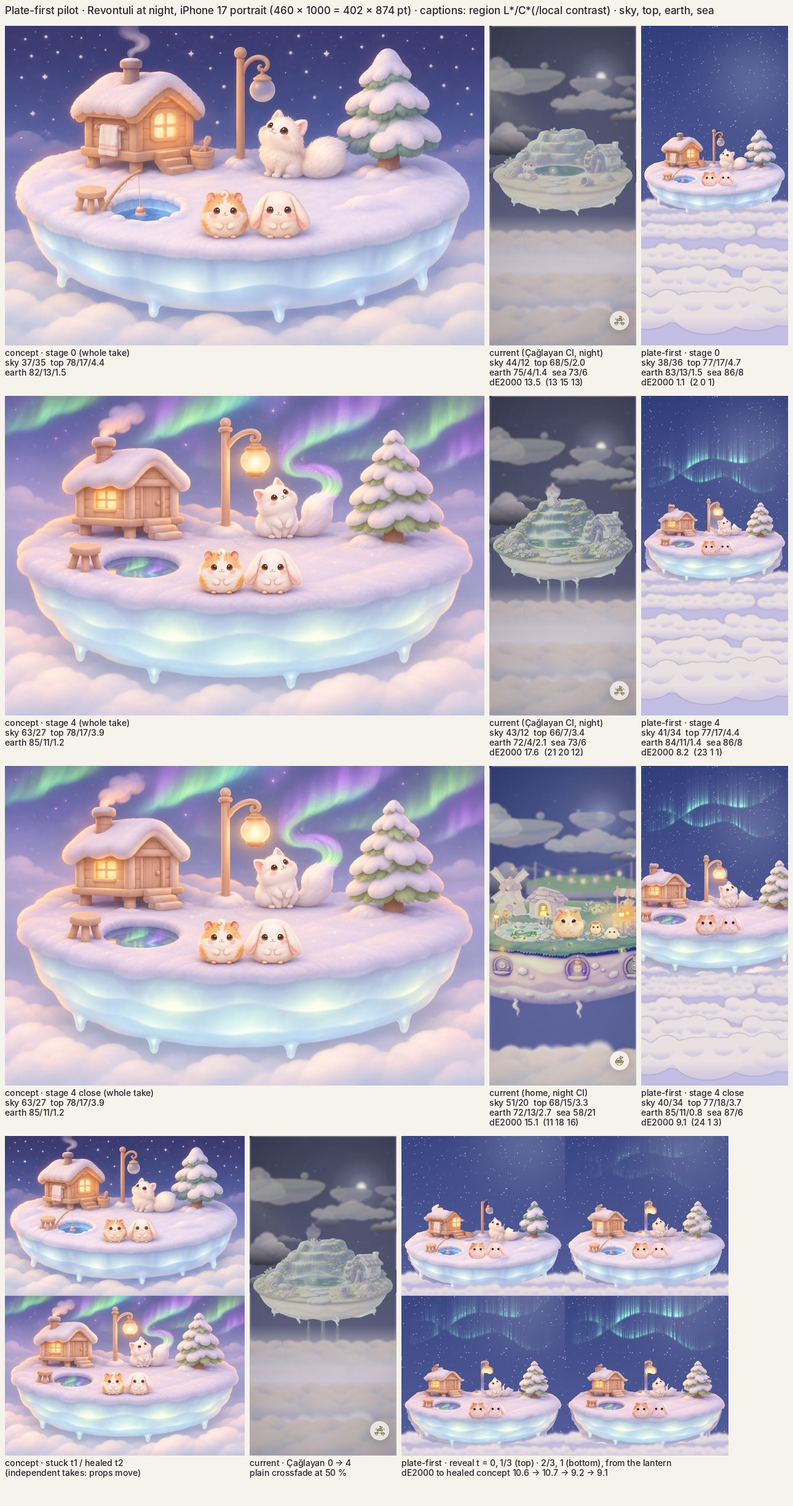
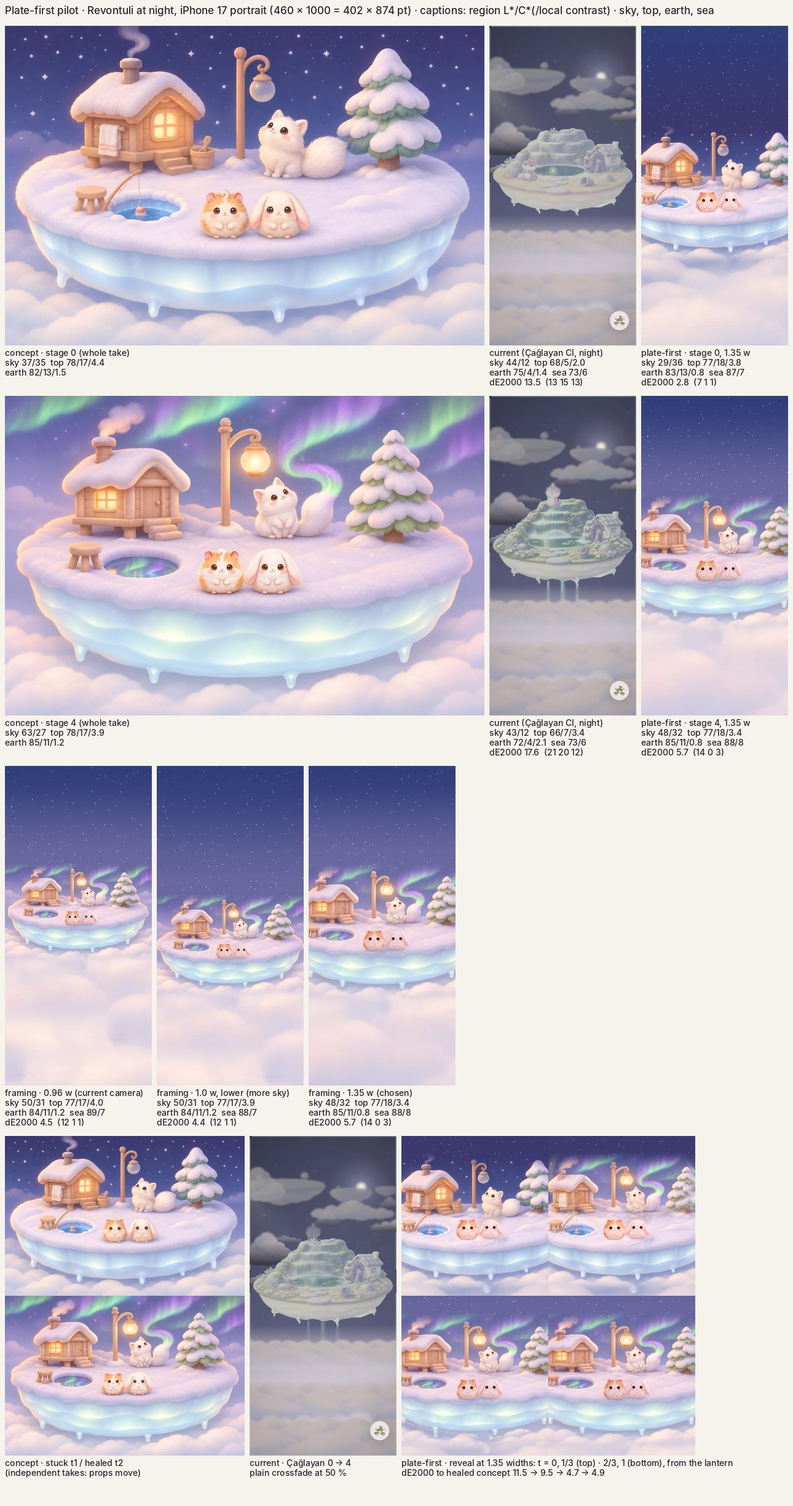
feat(research): paint the pilot's backdrop from the plate, add framings
The procedural cloud sea and aurora read cheaper than the painting, so
the pilot now uses the take's own sky, aurora and clouds (continued
above and enlarged below without visible repeats), and shows stage 4
at 0.96, 1.0 and 1.35 screen widths; 1.35 frames the other rows.

Claude-Session: https://claude.ai/code/session_01GwfTHRvjXB6MZotJeSMDtJ

Changed region(s): [[0.0, 0.031, 1.0, 0.9927]]

diff --git a/tools/plate/pilot.py b/tools/plate/pilot.py
@@ -9,13 +9,12 @@ silhouette only, and the transition shows that residue honestly. The painted Pof
 out of both takes (in production the plate is painted without them) and the sprites are put back, lit
 from the plate.
 
-Per frame, back to front (the runtime order of docs/design/plate-islands.md):
-  1. sky from the colour script's night cell (zenith, horizon, glow, stars), ungraded;
-  2. code aurora curtains (screen blend), strength by stage;
-  3. the plate at full resolution, cut by its matte, no grade, no fog, no haze;
-  4. Pofu and Mochi sprites, gain from the plate's sampled local light, a contact pad in the plate's own
-     shadow colour and a rim from the nearest practical;
-  5. the cloud sea (colour script sea colours) with one front row over the plate's foot.
+Per frame (fix round, `painted_frame`): the whole painted take is the backdrop, its own sky,
+aurora and clouds (the procedural sky, aurora and cloud sea above are kept for reference but no
+longer used: they read cheaper than the painting). Above the take its sky continues in one tone
+deepening to the colour script's night zenith, with stars; below it, its own cloud band (icicles
+inpainted out) repeats at growing sizes. Pofu and Mochi are lit from the plate with contact pads.
+Stage 4 is shown at three framings (0.96, 1.0 and 1.35 screen widths); 1.35 is used elsewhere.
 
     python3 -I tools/plate/pilot.py SHOTS_DIR OUT.jpg [--frames DIR]
 
@@ -418,6 +417,104 @@ def compose(plate: np.ndarray, plate_a: np.ndarray, stage: int, key: str, pose: 
     return out, {"box": box, "island": island, "lit": info}
 
 
+# ---------------------------------------------------------------- painted backdrop (fix round)
+
+def painted_frame(take: np.ndarray, take_a: np.ndarray, key: str, width: float, centre_y: float,
+                  shimmer: float = 0.0) -> tuple[np.ndarray, dict]:
+    """The whole painted take as the frame: the plate's own sky, aurora and clouds, no code backdrop.
+    The take is scaled so the island is `width` screen widths, its centre at `centre_y` of the frame.
+    Above the take, its own top sky continues (column colours, blurred) with code stars; below it, its
+    own cloud band is repeated at 1.7x and 2.6x (nearer clouds are bigger), mirrored and offset, so no
+    puff repeats at one size. `shimmer` slides the painted aurora by a few pixels inside its sky mask
+    (the runtime's slow shimmer; a still frame shows phase 0)."""
+    W, H = FRAME[0] * SS, FRAME[1] * SS
+    x0b, y0b, x1b, y1b = bbox(take_a)
+    k = width * W / (x1b - x0b)
+    tw, th = round(take.shape[1] * k), round(take.shape[0] * k)
+    big = np.asarray(to_img(take).resize((tw, th), Image.Resampling.LANCZOS), np.float64) / 255
+    ba = np.asarray(Image.fromarray(np.uint8(take_a * 255)).resize((tw, th), Image.Resampling.LANCZOS), np.float64) / 255
+    if shimmer:
+        sky = (ba < 0.05)[..., None]
+        big = np.where(sky, np.roll(big, round(shimmer * SS), axis=1), big)
+    px = round(W / 2 - (x0b + x1b) / 2 * k)
+    py = round(centre_y * H - (y0b + y1b) / 2 * k)
+    canvas = np.zeros((H, W, 3))
+    # Above: the take's own top sky as one soft colour (no aurora columns stretched), deepening upward,
+    # with code stars; it fills the whole canvas first so no feather ever blends toward black.
+    # The base sky tone: the take's darker top pixels (the 25 % darkest, so stars and aurora do not
+    # wash it grey), deepening to the colour script's night zenith at the top of the frame.
+    topband = big[:max(4, round(0.05 * th))].reshape(-1, 3)
+    Lt = srgb_to_lab(topband)[:, 0]
+    topc = topband[Lt <= np.percentile(Lt, 25)].mean(0)
+    zen = hexrgb(CELLS["night"]["sky"]["zenith"])
+    yy = np.arange(H)[:, None, None]
+    deepen = smooth(0, 1, np.clip((py - yy) / max(py, 1), 0, 1))
+    canvas[:] = topc * (1 - deepen) + zen * deepen
+    if py > 0:
+        stars = sky_stars(W, H, seed=9) * (np.arange(H) < py + 0.1 * th)[:, None]
+        canvas = np.clip(canvas + stars[..., None] * np.array([0.95, 0.95, 1.0]), 0, 1)
+    # Below: the take's cloud band (bottom 12 %, the island's icicles inpainted out), bigger copies
+    # toward the viewer, mirrored and offset, until the frame's foot.
+    cut = int(th * 0.88)
+    band = big[cut:].copy()
+    hole = np.uint8(ndimage.binary_dilation(ba[cut:] > 0.2, iterations=round(3 * SS)) * 255)
+    band = cv2.inpaint(np.uint8(band * 255), hole, 7, cv2.INPAINT_TELEA).astype(np.float64) / 255
+    y, i = py + th - round(0.05 * th), 0
+    while y < H:
+        scale = min(1.7 * 1.45 ** i, 6.0)
+        src = band[:, ::-1] if i % 2 == 0 else band
+        b = np.asarray(to_img(src).resize((round(band.shape[1] * scale), round(band.shape[0] * scale)), Image.Resampling.LANCZOS), np.float64) / 255
+        if b.shape[1] < W:
+            b = np.asarray(to_img(b).resize((W, round(b.shape[0] * W / b.shape[1])), Image.Resampling.LANCZOS), np.float64) / 255
+        off = round((b.shape[1] - W) * ((0.3 + 0.27 * i) % 1.0))
+        b = b[:, off:off + W]
+        feather = round(b.shape[0] * 0.5)
+        y_top = y - feather
+        hh = min(b.shape[0], H - y_top)
+        m = smooth(0, feather, np.arange(hh))[:, None, None]
+        canvas[y_top:y_top + hh] = b[:hh] * m + canvas[y_top:y_top + hh] * (1 - m)
+        y, i = y_top + hh, i + 1
+    # The take itself, its bottom edge feathered into the cloud copies.
+    sx0, sy0 = max(-px, 0), max(-py, 0)
+    dx0, dy0 = max(px, 0), max(py, 0)
+    dx1, dy1 = min(W, px + tw), min(H, py + th)
+    sub = big[sy0:sy0 + dy1 - dy0, sx0:sx0 + dx1 - dx0]
+    rows_ = sy0 + np.arange(sub.shape[0])
+    fade = smooth(0, 0.08 * th, th - rows_).reshape(-1, 1, 1)
+    if py > 0:  # the top of the take melts into the continued sky (the painted aurora fades upward)
+        fade = np.minimum(fade, smooth(0, 0.14 * th, rows_).reshape(-1, 1, 1))
+    # The island itself is never faded.
+    keep = ba[sy0:sy0 + dy1 - dy0, sx0:sx0 + dx1 - dx0][..., None]
+    fade = np.maximum(fade, keep)
+    canvas[dy0:dy1, dx0:dx1] = sub * fade + canvas[dy0:dy1, dx0:dx1] * (1 - fade)
+    full_a = np.zeros((H, W))
+    full_a[dy0:dy1, dx0:dx1] = ba[sy0:sy0 + dy1 - dy0, sx0:sx0 + dx1 - dx0]
+    plate_frame = canvas.copy()
+    info = {}
+    for name in ("pofu", "mochi"):
+        (fx, fy), wpct = FEET[name]
+        sw = round(wpct / 100 * tw)
+        spr = sprite(name, sw)
+        feet = (px + round(fx / 100 * tw), py + round(fy / 100 * th))
+        prac = ((px + round(0.52 * tw), py + round(0.18 * th)), PRACTICAL[key][1], PRACTICAL[key][2])
+        lit, inf = lit_from_plate(spr, plate_frame, np.pad(full_a, 0), feet, prac)
+        info[name] = inf["gain"]
+        contact_pad(canvas, feet[0], feet[1], sw, inf["ratio"])
+        place(canvas, lit, feet[0], feet[1] + round(0.02 * sw))
+    out = np.asarray(to_img(canvas).resize(FRAME, Image.Resampling.LANCZOS), np.float64) / 255
+    island = np.asarray(Image.fromarray(np.uint8(full_a * 255)).resize(FRAME, Image.Resampling.BILINEAR), np.float64) / 255
+    box = ((px + x0b * k) / SS, (py + y0b * k) / SS, (px + x1b * k) / SS, (py + y1b * k) / SS)
+    return out, {"box": box, "island": island, "lit": info}
+
+
+def sky_stars(W: int, H: int, seed: int) -> np.ndarray:
+    rng = np.random.default_rng(seed)
+    n = int(W * H / 2600)
+    st = np.zeros((H, W))
+    st[rng.integers(0, H, n), rng.integers(0, W, n)] = rng.uniform(0.3, 1.0, n) ** 2
+    return ndimage.gaussian_filter(st, 0.8 * SS) * (6 * SS)
+
+
 def diff_mask(a: np.ndarray, b: np.ndarray, alpha: np.ndarray) -> np.ndarray:
     d = ll.de2000(srgb_to_lab(a), srgb_to_lab(b))
     d = ndimage.gaussian_filter(d, 3)
@@ -536,12 +633,18 @@ def main(argv: list[str] | None = None) -> int:
     alpha = np.minimum(sa, ha)  # one matte for the pair, as production plates share one
 
     frames, readout = {}, {}
-    frames["s0-whole"] = compose(stuck, sa, 0, "stuck", "whole", cell)
-    frames["s4-whole"] = compose(healed_raw, ha_raw, 4, "healed", "whole", cell)
-    frames["s4-close"] = compose(healed_raw, ha_raw, 4, "healed", "close", cell)
+    # Fix round: the painted take is the backdrop (its own sky, aurora and clouds). Framings for the
+    # founder: the current camera (0.96 widths, centre 46 %), 1.0 widths lower (more sky), 1.35 widths.
+    FRAMINGS = {"current": (0.96, 0.457), "1.0": (1.0, 0.56), "1.35": (1.35, 0.52)}
+    WIN = "1.35"
+    ones = np.ones_like(sa)
+    frames["s0"] = painted_frame(stuck, sa, "stuck", *FRAMINGS[WIN])
+    frames["s4"] = painted_frame(healed_raw, ha_raw, "healed", *FRAMINGS[WIN])
+    for f in FRAMINGS:
+        frames[f"s4-{f}"] = painted_frame(healed_raw, ha_raw, "healed", *FRAMINGS[f])
     for i, t in enumerate((0.0, 1 / 3, 2 / 3, 1.0)):
-        mid = transition(stuck, healed, alpha, (52, 18), t)
-        frames[f"tr-{i}"] = compose(mid, alpha, 4, "healed" if t >= 0.5 else "stuck", "whole", cell, aurora_strength=t ** 1.5)
+        mid = transition(stuck, healed, ones, (52, 18), t)
+        frames[f"tr-{i}"] = painted_frame(mid, alpha, "healed" if t >= 0.5 else "stuck", *FRAMINGS[WIN])
 
     def native(path, key):
         rgb = ll.load_rgb(path)
@@ -571,18 +674,21 @@ def main(argv: list[str] | None = None) -> int:
         return to_img(img), caption(name, r, ref)
 
     rows = []
-    for key, ref_key, label in (("s0-whole", "s0", "stage 0"), ("s4-whole", "s4", "stage 4"), ("s4-close", "s4c", "stage 4 close")):
+    for key, ref_key, label in (("s0", "s0", "stage 0"), ("s4", "s4", "stage 4")):
         img, info = frames[key]
         rows.append([
             cell_of(*refs[ref_key], f"concept · {label} (whole take)", None, measured[ref_key]),
-            cell_of(*cur[ref_key], "current (Çağlayan CI, night)" if ref_key != "s4c" else "current (home, night CI)", R[ref_key]),
-            cell_of(img, info["island"], info["box"], f"plate-first · {label}", R[ref_key]),
+            cell_of(*cur[ref_key], "current (Çağlayan CI, night)", R[ref_key]),
+            cell_of(img, info["island"], info["box"], f"plate-first · {label}, {WIN} w", R[ref_key]),
         ])
+    names = {"current": "0.96 w (current camera)", "1.0": "1.0 w, lower (more sky)", "1.35": "1.35 w (chosen)"}
+    rows.append([cell_of(*frames[f"s4-{f}"][:1], frames[f"s4-{f}"][1]["island"], frames[f"s4-{f}"][1]["box"],
+                         "framing · " + names[f], R["s4"]) for f in FRAMINGS])
     # The transition row: the concept pair, the current plain crossfade, the pilot's reveal as 2 x 2
     # crops of the island (the change is too small to read on whole frames at this size).
     pair = np.concatenate([refs["s0"][0], refs["s4"][0]], 0)
     cross = cur["s0"][0] * 0.5 + cur["s4"][0] * 0.5
-    crops = [frames[f"tr-{i}"][0][150:600] for i in range(4)]
+    crops = [frames[f"tr-{i}"][0][250:750] for i in range(4)]
     grid = np.concatenate([np.concatenate(crops[:2], 1), np.concatenate(crops[2:], 1)], 0)
     des = []
     for i in range(4):
@@ -592,7 +698,7 @@ def main(argv: list[str] | None = None) -> int:
     rows.append([
         (to_img(pair), "concept · stuck t1 / healed t2\n(independent takes: props move)"),
         (to_img(cross), "current · Çağlayan 0 → 4\nplain crossfade at 50 %"),
-        (to_img(grid), "plate-first · reveal t = 0, 1/3 (top) · 2/3, 1 (bottom), from the lantern\n"
+        (to_img(grid), f"plate-first · reveal at {WIN} widths: t = 0, 1/3 (top) · 2/3, 1 (bottom), from the lantern\n"
                        f"dE2000 to healed concept {des[0]:.1f} → {des[1]:.1f} → {des[2]:.1f} → {des[3]:.1f}"),
     ])
     ll.sheet(rows, a.out, title="Plate-first pilot · Revontuli at night, iPhone 17 portrait (460 x 1000 = 402 x 874 pt)"
@@ -601,7 +707,7 @@ def main(argv: list[str] | None = None) -> int:
         a.frames.mkdir(parents=True, exist_ok=True)
         for k, (img, _) in frames.items():
             to_img(img).save(a.frames / f"{k}.png")
-    readout["lit"] = {k: v[1]["lit"] for k, v in frames.items() if k.startswith("s")}
+    readout["lit"] = {k: v[1]["lit"] for k, v in frames.items() if k in ("s0", "s4")}
     readout["transition_dE"] = [round(x, 1) for x in des]
     print(json.dumps(readout, indent=1, ensure_ascii=False))
     return 0
